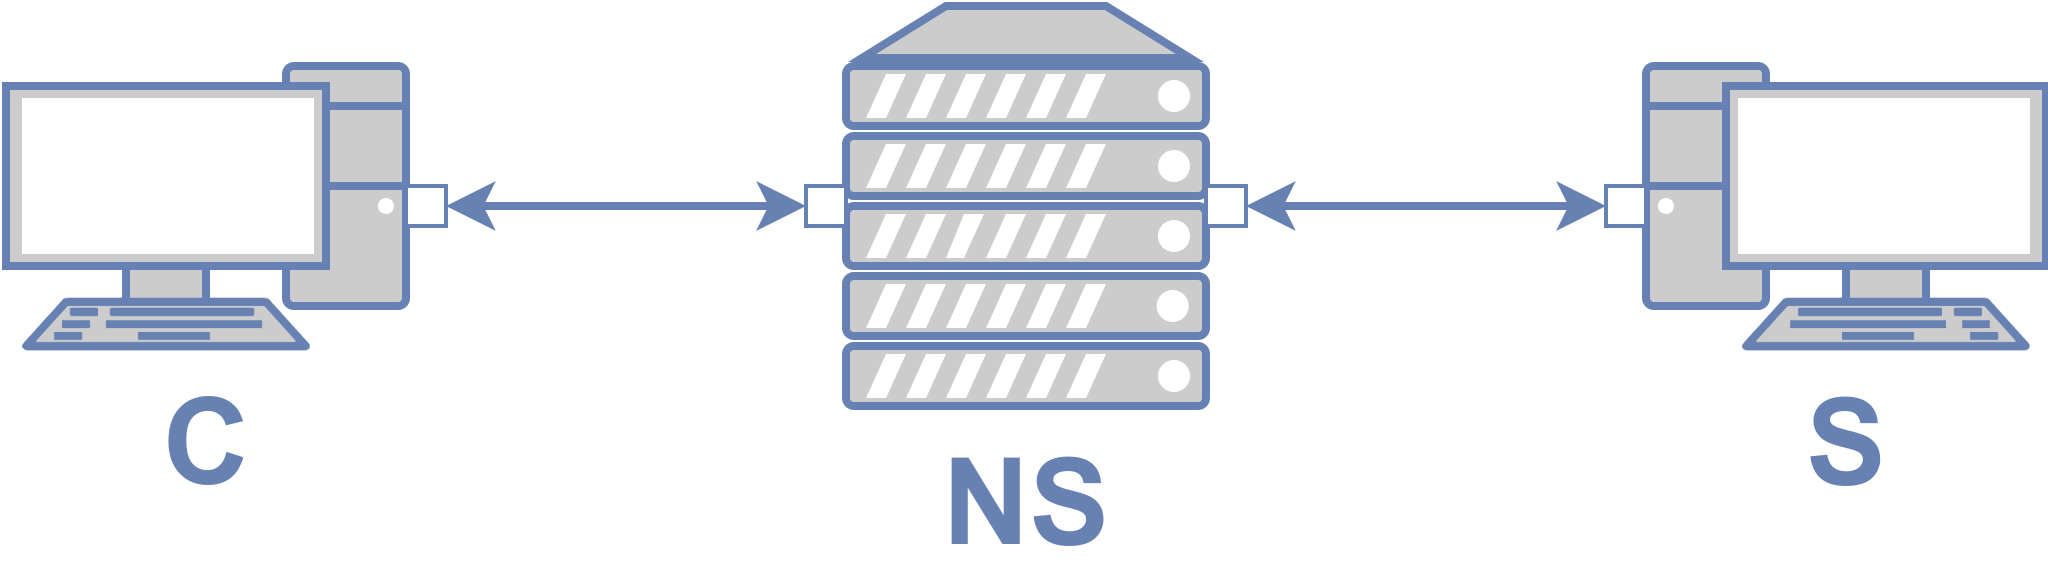
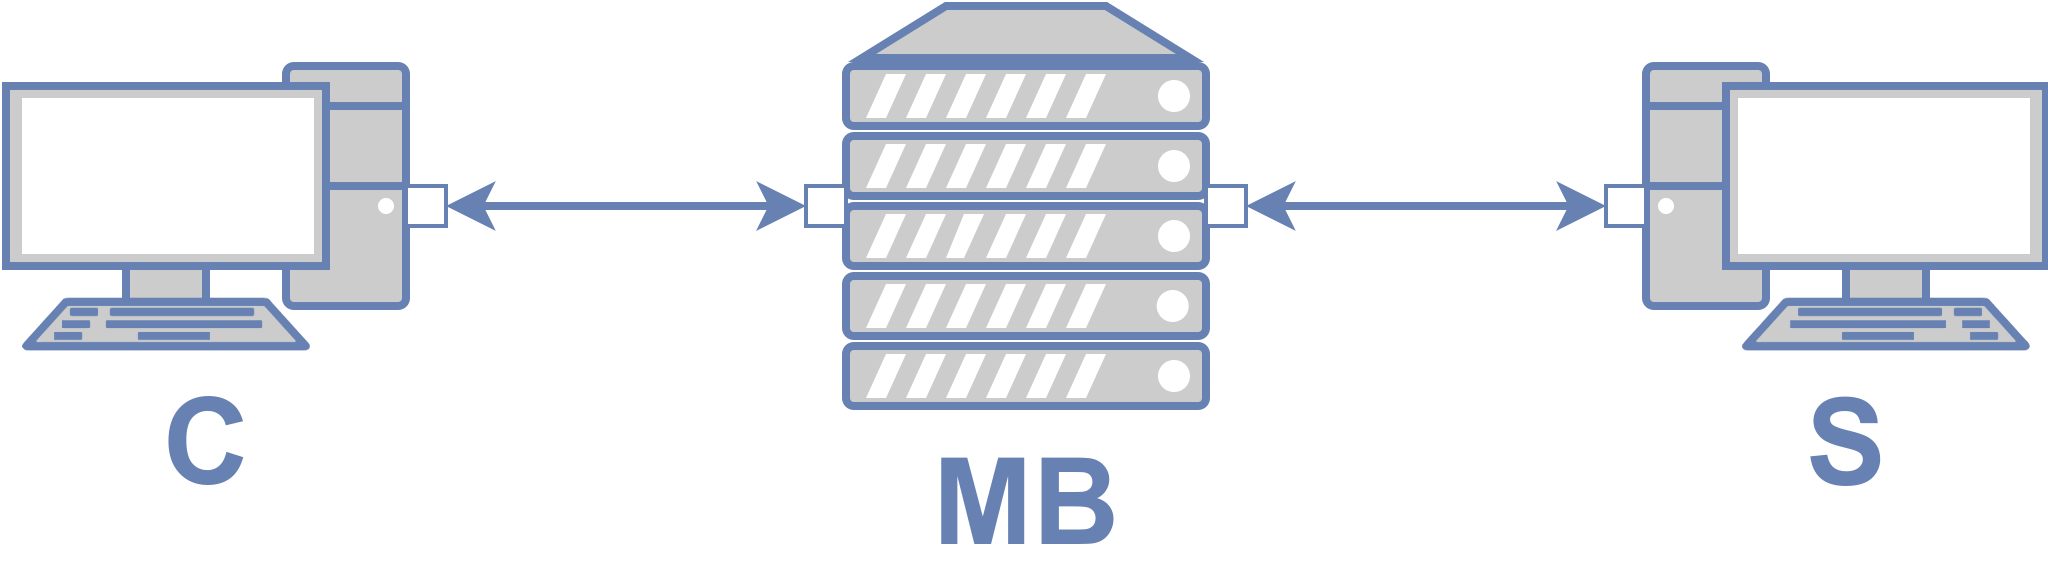
added testbed description

Changed region(s): [[0.4375, 0.7812, 0.5625, 0.9688]]

diff --git a/testbed.tex b/testbed.tex
@@ -1,21 +1,13 @@
 % !TEX root = ./paper.tex 
 
 % testbed description
- We deploy a testbed composed of three machines with Intel Xeon CPU E5-2630
-2.40GHz, 16 Threads, at least 16GB RAM, running Debian 9.0 with 4.9 and
-4.12 kernels. Two of these machines play the role of Client and Server,
-while one is the Network Simulator (NS). Each machine is equipped with an
+We deploy a testbed composed of three machines with Intel Xeon CPU E5-2630
+2.40GHz, 16 Threads, at least 16GB RAM, running Debian with 5.7 and
+5.9 kernels. Two of these machines play the role of Client and Server,
+while one is the Middlebox (MB). Each machine is equipped with an
 Intel XL710 2x40GB NIC, directly connected as shown in Fig.~\fig{testbed}.
-Traffic exchanged by client and server has to go through the NS first.
+Traffic exchanged by C and S has to go through MB first. Each device is
+configured to maximize its performances, with a single TCP connection
+reaching 22 Gbps with a 1500 Bytes MTU and linerate (i.e., 40 Gbps) when
+using jumbo frames.
 
-% More details on the NS
-The NS relies on \dfn{Vector Packet Processing} (VPP)~\cite{vpp}, a
-kernel-bypass packet processing framework, and on \mmb and \texttt{nsim}
-plugins for simulating realistic network conditions and middlebox
-interferences. \mmb is a middlebox plugin for VPP that allows to build various
-stateless and stateful classification and rewriting middlebox
-policies~\cite{edeline2019mmb}. It is used to recreate existing middlebox
-traffic impairments without introducing additional processing overhead.
-\texttt{nsim} is a network delay simulator that adds delay and shapes traffic
-by processing packet vectors. The NS device is configured to maximize
-its performances, to make sure that it is not the measurements bottleneck.

diff --git a/evaluation.tex b/evaluation.tex
@@ -1,6 +1,26 @@
 % !TEX root = ./paper.tex
 \subsection{General Methodology}
 
+For performance and middlebox interference experiments, we build a testbed
+composed of three machines with Intel Xeon CPU E5-2630
+2.40GHz, 16 Threads, at least 16GB RAM, running Debian with 5.7 and
+5.9 kernels. Two of these machines play the role of Client and Server,
+while one is the Middlebox (MB). Each machine is equipped with an
+Intel XL710 2x40GB NIC, directly connected as shown in Fig.~\ref{fig:perf_testbed}.
+Traffic exchanged by C and S has to go through MB first. Each device is
+configured to maximize its performances, with a single TCP connection
+reaching 22 Gbps with a 1500 Bytes MTU and linerate (i.e., 40 Gbps) when
+using jumbo frames.
+
+\begin{figure}[!t]
+  \begin{center}
+    \includegraphics[width=6cm]{figures/testbed.png}
+  \end{center}
+  \vspace{-0.5cm}
+  \caption{Performance Measurements Setups. C = Client. S = Server. MB = Middlebox.}
+  \label{fig:perf_testbed}
+    \vspace{-0.5cm}
+\end{figure}
 
 \subsection{Capability Comparison Between QUIC, \tcp and \tls/\tcp}
 
@@ -51,6 +71,7 @@ QUIC~\cite{de2019pluginizing}.
 \end{table}
 
 \subsection{Performance}
+
 
 TCPLS vs QUIC vs TLS/TCP
 

diff --git a/tls-tcp_background.tex b/tls-tcp_background.tex
@@ -25,12 +25,15 @@ traffic \cite{trevisan2020five}.
 
 TCP was designed as an end-to-end protocol that is only used on
 endhosts. Despite this architectural principale, network operators
-have deployed a variety of middleboxes (firewalls, NAT, transparent
-proxies, \ldots) that sometimes interfere with TCP or its extensions
-\cite{medina2004measuring, honda2011still, edeline2017first}.
-These middleboxes make some assumptions about the content of TCP
-packets and do not always complete follow the TCP specifications
-\cite{honda2011still, hesmans2013tcp}. 
+have deployed a variety of middleboxes (e.g., firewalls, NATs, transparent
+proxies) that sometimes interfere with TCP or its extensions
+\cite{medina2004measuring, honda2011still, edeline2019bottom}.
+These in-path network functions make assumptions about the content of TCP
+packets, invalidating the initial end-to-end paradigm of TCP.
+Moreover, they do not always strictly follow the TCP specifications
+\cite{honda2011still, hesmans2013tcp}, which may negatively affect
+TCP evolution and performances~\cite{edeline2020evaluating}.
+% which
 
 %\cite{honda2011still} % honda still possible to extend TCP
 

diff --git a/background-design.tex b/background-design.tex
@@ -9,13 +9,13 @@
 
 \tcpls offers a cross-layer interface to \tls and \tcp
 with the motivation to do more than securing the transport layer. Merging the
-stacks benefits both
-protocols
+stacks benefits both protocols
 and the application using this new approach. First, \tcp suffers from a lack of
 extensibility due to size restrictions in its header and due to
 potential middlebox interferences~\cite{honda2011still}. \tcpls aims to solve
 \tcp's extensibility issue in the long run by offering a secure control channel
-to exchange \tcp options without suffering from middlebox interferences and size restrictions in \tcp headers.
+to exchange \tcp options without suffering from middlebox interferences
+and size restrictions in \tcp headers.
 Second, \tls does not have a clear view of the transport protocol, and offering
 one with \tcpls brings opportunity for performance improvement (e.g., avoiding
 records fragmentation with dynamic receive buffer auto-tuning and/or with
